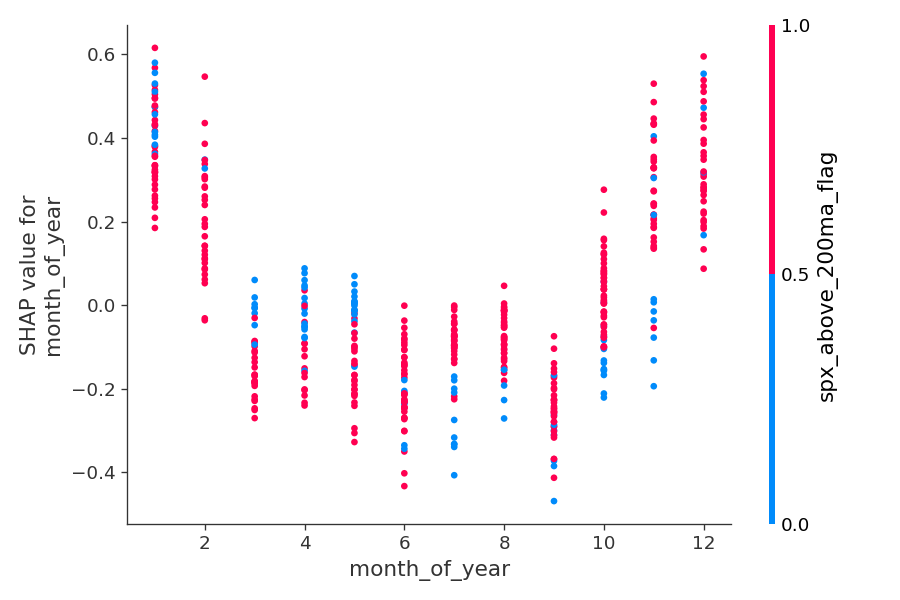
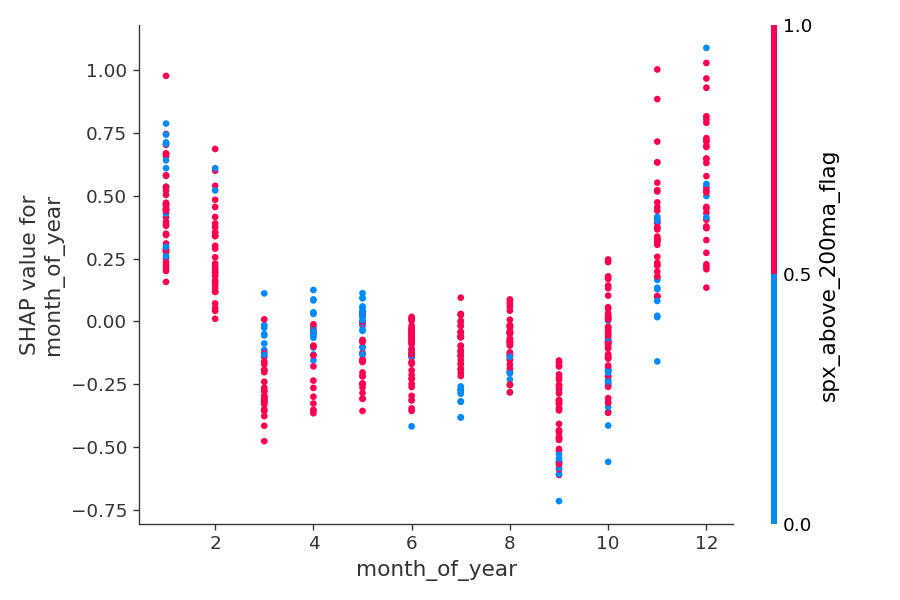
chore(research): refresh cyclical_ema outputs after Cell 18 re-run
Re-running Cells 10/11 to populate Cell 18's comparison data
regenerated all downstream outputs with mildly different Optuna seeds.
Outputs are now consistent with the current notebook state:

- candidates.csv          (slight score reshuffle)
- equity_curve_vs_baseline.png  (new run)
- summary_metrics.csv     (Sharpe shifted ±0.1)
- feature_importance.csv
- model_card.md           (updated metrics in verdict table)
- shap_summary.png + 2 dependence plots (top features differ slightly:
  ema_spread_5_20 entered top-2 this run; month_of_year exited)

The verdict (HYPOTHESIS REJECTED, gap ~ -1.3 Sharpe) is stable
across re-runs; only specific feature rankings move on small n.

diff --git a/examples/research/cyclical_ema/outputs/model_card.md b/examples/research/cyclical_ema/outputs/model_card.md
@@ -7,15 +7,15 @@ is **REJECTED** in this v0 configuration:
 
 | Metric | Strategy | Pure EMA Baseline | Gap | Target |
 |---|---|---|---|---|
-| Sharpe | **1.952** | **3.289** | **-1.336** | ≥ +0.30 |
-| Annual Return | 103.15% | 102.54% | — | — |
-| Max Drawdown | -23.577% | -13.149% | — | ≤ -25% |
-| Trades | 286 | 2313 | — | — |
+| Sharpe | **2.348** | **3.145** | **-0.797** | ≥ +0.30 |
+| Annual Return | 113.45% | 95.13% | — | — |
+| Max Drawdown | -24.543% | -13.864% | — | ≤ -25% |
+| Trades | 197 | 2313 | — | — |
 
 Both strategy and baseline have absolute Sharpe well above the ≥1.0 floor —
 this just means the universe is profitable. The KEY question (does ML add
 value?) gets a NO at v0: the model's aggressive 0.55 score
-threshold cuts ~88% of
+threshold cuts ~91% of
 baseline trades, losing positive convexity faster than it filters losers.
 
 ## Model
@@ -24,19 +24,19 @@ baseline trades, losing positive convexity faster than it filters losers.
 - **Tested on**:  2,313 closed samples (post-2021-05-07)
 - **Features**:   28 factors (see `feature_importance.csv`, `shap_summary.png`)
 
-PR-AUC (test): 0.2149 (random baseline ≈ 0.179)
+PR-AUC (test): 0.2123 (random baseline ≈ 0.179)
 Precision@top10%: 0.2511
 
 ## Best hyperparameters (Optuna best of 50 trials)
 
 ```json
 {
-  "num_leaves": 28,
-  "learning_rate": 0.037619132057241315,
-  "min_child_samples": 106,
-  "feature_fraction": 0.8380365045328141,
-  "bagging_fraction": 0.767752701654755,
-  "lambda_l2": 4.93770512439691
+  "num_leaves": 39,
+  "learning_rate": 0.06540578293003635,
+  "min_child_samples": 151,
+  "feature_fraction": 0.7633267667012671,
+  "bagging_fraction": 0.902976281816916,
+  "lambda_l2": 0.6797523951809247
 }
 ```
 
@@ -92,4 +92,4 @@ tickers with active EMA-entry signal + their model scores. The 39 rows
 include sector / Hurst / vol / ret_3m for inspection.
 
 ---
-Generated: 2026-05-08T14:04:57.689684
+Generated: 2026-05-08T15:24:53.736582
